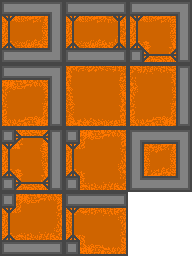
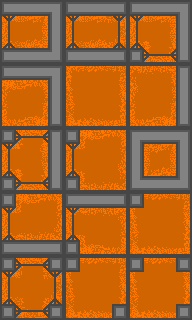
Fuel merging working + starting on name saving

diff --git a/Assets/Resources/Building/MergeManager.cs b/Assets/Resources/Building/MergeManager.cs
@@ -51,6 +51,33 @@ public class MergeManager : MonoBehaviour
         { 1, 1, 1 }
     };
 
+    int[,] vertFull =
+    {
+        { 0, 1, 1 },
+        { 1, 0, 1 },
+        { 1, 1, 1 }
+    };
+
+    int[,] vert2Full =
+    {
+        { 0, 1, 1 },
+        { 1, 0, 1 },
+        { 1, 1, 0 }
+    };
+
+    int[,] vert3Full =
+    {
+        { 0, 1, 0 },
+        { 1, 0, 1 },
+        { 1, 1, 0 }
+    };
+    
+    int[,] crossRoads =
+    {
+        { 0, 1, 0 },
+        { 1, 0, 1 },
+        { 0, 1, 0 }
+    };
     int[,] fullStraight = 
     {
         { 1, 1, 0 },
@@ -138,7 +165,7 @@ public class MergeManager : MonoBehaviour
         {
             for (int j = 0; j < a.GetLength(1); j++)
             {
-                if (a[i, j] != b[i, j])
+                if (b[i, j] == 1 && a[i, j] != 1)
                 {
                     return false;
                 }
@@ -156,7 +183,7 @@ public class MergeManager : MonoBehaviour
             //full
             if (Match(connections, full) || Match(connections, Rotate(full)) || Match(connections, Rotate(Rotate(full))) || Match(connections, Rotate(Rotate(Rotate(full)))))
             {
-                int rotation = GetRotation(connections, end);
+                int rotation = GetRotation(connections, full);
 
                 if (rotation != -1)
                 {
@@ -164,10 +191,32 @@ public class MergeManager : MonoBehaviour
                     mergeData.merge.transform.rotation = Quaternion.Euler(0, 0, -rotation * 90);
                 }
             }
+            // vert full
+            else if (Match(connections, vertFull) || Match(connections, Rotate(vertFull)) || Match(connections, Rotate(Rotate(vertFull))) || Match(connections, Rotate(Rotate(Rotate(vertFull)))))
+            {
+                int rotation = GetRotation(connections, vertFull);
+
+                if (rotation != -1)
+                {
+                    mergeData.merge.SetSprite(11);
+                    mergeData.merge.transform.rotation = Quaternion.Euler(0, 0, -rotation * 90);
+                }
+            }
+            // vert 2 full
+            else if (Match(connections, vert2Full) || Match(connections, Rotate(vert2Full)) || Match(connections, Rotate(Rotate(vert2Full))) || Match(connections, Rotate(Rotate(Rotate(vert2Full)))))
+            {
+                int rotation = GetRotation(connections, vert2Full);
+
+                if (rotation != -1)
+                {
+                    mergeData.merge.SetSprite(13);
+                    mergeData.merge.transform.rotation = Quaternion.Euler(0, 0, -rotation * 90);
+                }
+            }
             // t full
             else if (Match(connections, tFull) || Match(connections, Rotate(tFull)) || Match(connections, Rotate(Rotate(tFull))) || Match(connections, Rotate(Rotate(Rotate(tFull)))))
             {
-                int rotation = GetRotation(connections, end);
+                int rotation = GetRotation(connections, tFull);
 
                 if (rotation != -1)
                 {
@@ -175,10 +224,21 @@ public class MergeManager : MonoBehaviour
                     mergeData.merge.transform.rotation = Quaternion.Euler(0, 0, -rotation * 90);
                 }
             }
+            // vert 3 full
+            else if (Match(connections, vert3Full) || Match(connections, Rotate(vert3Full)) || Match(connections, Rotate(Rotate(vert3Full))) || Match(connections, Rotate(Rotate(Rotate(vert3Full)))))
+            {
+                int rotation = GetRotation(connections, vert3Full);
+
+                if (rotation != -1)
+                {
+                    mergeData.merge.SetSprite(14);
+                    mergeData.merge.transform.rotation = Quaternion.Euler(0, 0, -rotation * 90);
+                }
+            }
             // full straight
             else if (Match(connections, fullStraight) || Match(connections, Rotate(fullStraight)) || Match(connections, Rotate(Rotate(fullStraight))) || Match(connections, Rotate(Rotate(Rotate(fullStraight)))))
             {
-                int rotation = GetRotation(connections, end);
+                int rotation = GetRotation(connections, fullStraight);
 
                 if (rotation != -1)
                 {
@@ -189,7 +249,7 @@ public class MergeManager : MonoBehaviour
             // corner full
             else if (Match(connections, cornerFull) || Match(connections, Rotate(cornerFull)) || Match(connections, Rotate(Rotate(cornerFull))) || Match(connections, Rotate(Rotate(Rotate(cornerFull)))))
             {
-                int rotation = GetRotation(connections, end);
+                int rotation = GetRotation(connections, cornerFull);
 
                 if (rotation != -1)
                 {
@@ -200,7 +260,7 @@ public class MergeManager : MonoBehaviour
             // corner full flip
             else if (Match(connections, cornerFullFlip) || Match(connections, Rotate(cornerFullFlip)) || Match(connections, Rotate(Rotate(cornerFullFlip))) || Match(connections, Rotate(Rotate(Rotate(cornerFullFlip)))))
             {
-                int rotation = GetRotation(connections, end);
+                int rotation = GetRotation(connections, cornerFullFlip);
 
                 if (rotation != -1)
                 {
@@ -211,7 +271,27 @@ public class MergeManager : MonoBehaviour
             // full corner
             else if (Match(connections, fullCorner) || Match(connections, Rotate(fullCorner)) || Match(connections, Rotate(Rotate(fullCorner))) || Match(connections, Rotate(Rotate(Rotate(fullCorner)))))
             {
-                int rotation = GetRotation(connections, end);
+                int rotation = GetRotation(connections, fullCorner);
+
+                if (rotation != -1)
+                {
+                    mergeData.merge.SetSprite(3);
+                    mergeData.merge.transform.rotation = Quaternion.Euler(0, 0, -rotation * 90);
+                }
+            }
+            // cross roads
+            else if (Match(connections, crossRoads) || Match(connections, Rotate(crossRoads)) || Match(connections, Rotate(Rotate(crossRoads))) || Match(connections, Rotate(Rotate(Rotate(crossRoads)))))
+            {
+                int rotation = GetRotation(connections, crossRoads);
+                if (rotation != -1)
+                {
+                    mergeData.merge.SetSprite(12);
+                    mergeData.merge.transform.rotation = Quaternion.Euler(0, 0, -rotation * 90);
+                }
+            }
+            else if (Match(connections, fullCorner) || Match(connections, Rotate(fullCorner)) || Match(connections, Rotate(Rotate(fullCorner))) || Match(connections, Rotate(Rotate(Rotate(fullCorner)))))
+            {
+                int rotation = GetRotation(connections, fullCorner);
 
                 if (rotation != -1)
                 {
@@ -222,7 +302,7 @@ public class MergeManager : MonoBehaviour
             // t junction
             else if (Match(connections, tJunction) || Match(connections, Rotate(tJunction)) || Match(connections, Rotate(Rotate(tJunction))) || Match(connections, Rotate(Rotate(Rotate(tJunction)))))
             {
-                int rotation = GetRotation(connections, end);
+                int rotation = GetRotation(connections, tJunction);
 
                 if (rotation != -1)
                 {
@@ -233,7 +313,7 @@ public class MergeManager : MonoBehaviour
             // straight
             else if (Match(connections, straight) || Match(connections, Rotate(straight)) || Match(connections, Rotate(Rotate(straight))) || Match(connections, Rotate(Rotate(Rotate(straight)))))
             {
-                int rotation = GetRotation(connections, end);
+                int rotation = GetRotation(connections, straight);
 
                 if (rotation != -1)
                 {
@@ -244,7 +324,7 @@ public class MergeManager : MonoBehaviour
             // corner
             else if (Match(connections, corner) || Match(connections, Rotate(corner)) || Match(connections, Rotate(Rotate(corner))) || Match(connections, Rotate(Rotate(Rotate(corner)))))
             {
-                int rotation = GetRotation(connections, end);
+                int rotation = GetRotation(connections, corner);
 
                 if (rotation != -1)
                 {

diff --git a/Assets/Resources/Building/Merge.cs b/Assets/Resources/Building/Merge.cs
@@ -25,19 +25,19 @@ public class Merge : MonoBehaviour
         connections = new int[,]
         {
             {
-                objGrid[position.x - 1, position.y + 1] != null ? 1 : 0,
-                objGrid[position.x,     position.y + 1] != null ? 1 : 0,
-                objGrid[position.x + 1, position.y + 1] != null ? 1 : 0
+                objGrid[position.x - 1, position.y + 1] != null && objGrid[position.x, position.y].name == this.name ? 1 : 0,
+                objGrid[position.x    , position.y + 1] != null && objGrid[position.x, position.y].name == this.name ? 1 : 0,
+                objGrid[position.x + 1, position.y + 1] != null && objGrid[position.x, position.y].name == this.name ? 1 : 0,
             },
             {
-                objGrid[position.x - 1, position.y] != null ? 1 : 0,
+                objGrid[position.x - 1, position.y] != null && objGrid[position.x, position.y].name == this.name ? 1 : 0,
                 0,
-                objGrid[position.x + 1, position.y] != null ? 1 : 0
+                objGrid[position.x + 1, position.y] != null && objGrid[position.x, position.y].name == this.name ? 1 : 0
             },
             {
-                objGrid[position.x - 1, position.y - 1] != null ? 1 : 0,
-                objGrid[position.x,     position.y - 1] != null ? 1 : 0,
-                objGrid[position.x + 1, position.y - 1] != null ? 1 : 0
+                objGrid[position.x - 1, position.y - 1] != null && objGrid[position.x, position.y].name == this.name ? 1 : 0,
+                objGrid[position.x,     position.y - 1] != null && objGrid[position.x, position.y].name == this.name ? 1 : 0,
+                objGrid[position.x + 1, position.y - 1] != null && objGrid[position.x, position.y].name == this.name ? 1 : 0
             }
         };
 

diff --git a/Assets/Resources/Building/SaveData.cs b/Assets/Resources/Building/SaveData.cs
@@ -57,6 +57,19 @@ public class SaveData : MonoBehaviour
         }
     }
 
+    public string loadName(int slot)
+    {
+        List<string> lines = new List<string>(File.ReadAllLines(path));
+        int index = LookUp(Type.Name, slot);
+
+        if (lines[index + 1].Contains("Name:"))
+        {
+            string name = lines[index + 1].Replace("Name:", "");
+        }
+
+        return name;
+    }
+
     public List<ModuleData> loadData(Type t, int slot) 
     {
         List<string> lines = new List<string>(File.ReadAllLines(path));
@@ -64,11 +77,6 @@ public class SaveData : MonoBehaviour
 
         foreach (string line in lines)
         {
-            //if (t == Type.Name && lines[index + 1].Contains("Name:"))
-            //{
-            //    string name = lines[index + 1].Replace("Name:", "");
-            //    //buildManager.LoadName(name);
-            //}
             if (t == Type.Ship && lines[slotIndex + 2].Contains("Modules:"))
             {
                 string temp = lines[index + 2].Replace("Modules:", "");

diff --git a/Assets/Resources/Building/BuildManager.cs b/Assets/Resources/Building/BuildManager.cs
@@ -152,6 +152,8 @@ public class BuildManager : MonoBehaviour
             }
             prePos = pos;
         }
+
+        // ADD NAME SAVING HERE
     }
 
     public void Build(int x, int y, GameObject obj)
@@ -306,6 +308,13 @@ public class BuildManager : MonoBehaviour
 
     public void SaveContentsActive()
     {
+        int i = 0;
+        foreach (Transform child in saveUI.transform)
+        {
+            i++;
+            GameObject nameObj = child.Find("Name").gameObject;
+            nameObj.GetComponent<TextMesh>().text = saveData.loadName(i).ToString();
+        }
         saveUI.SetActive(!saveUI.activeSelf);
     }
 
